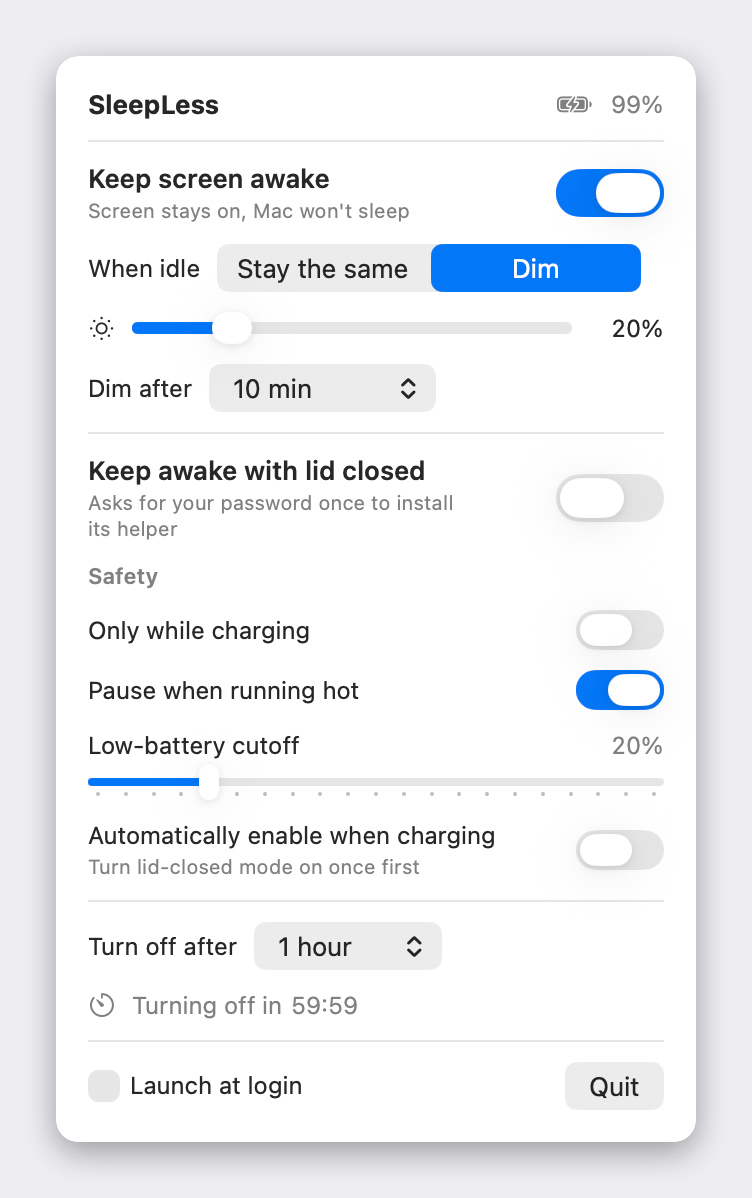
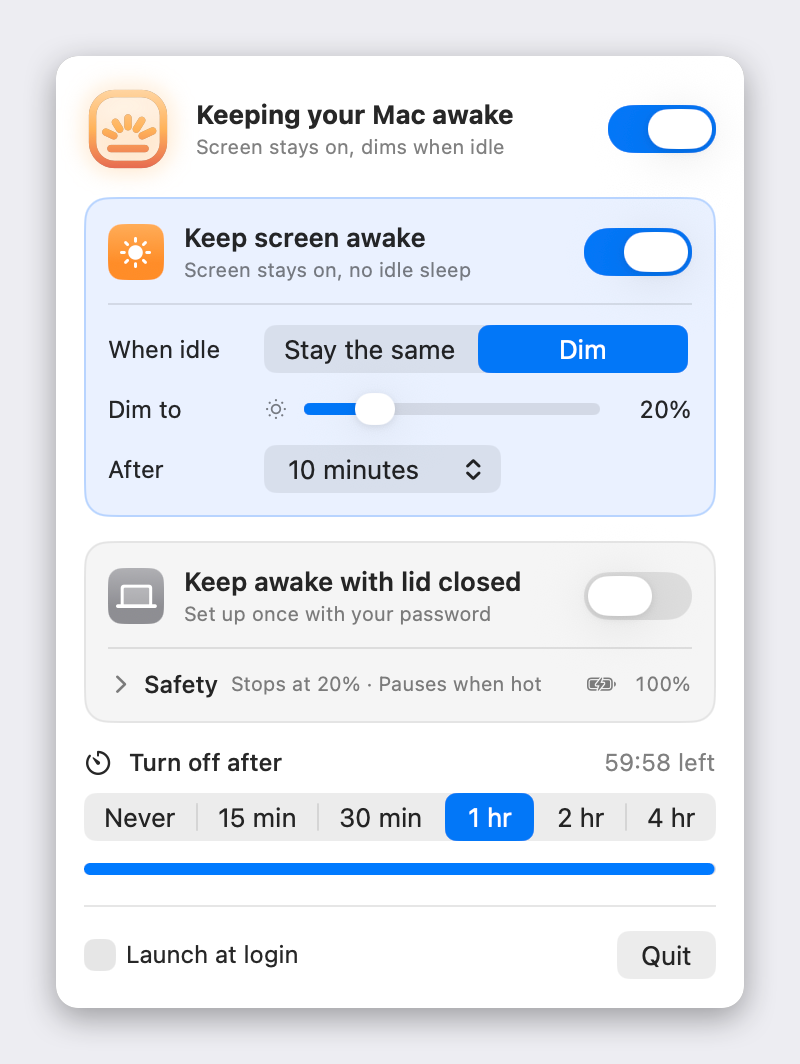
docs: new panel screenshots; describe click-to-toggle, hold-for-settings and the panel layout

diff --git a/docs/index.html b/docs/index.html
@@ -148,8 +148,9 @@
       <div class="card"><div class="icon">☀</div><h3>Keep screen awake</h3><p>Lid open: the screen never idle-dims or sleeps and the Mac never idle-sleeps — the same assertions as <code>caffeinate -di</code>. No admin rights.</p></div>
       <div class="card"><div class="icon">🌙</div><h3>Dim while idle</h3><p>Stay the same, or dim to a brightness you pick after 30 s to 10 min. Any key press or mouse move brings your brightness straight back. Never brightens a screen already below the target.</p></div>
       <div class="card"><div class="icon">💻</div><h3>Keep awake with lid closed</h3><p>Sets the one flag that beats lid-close sleep on Apple Silicon (<code>SleepDisabled</code>) through a tiny root helper you approve once with your password.</p></div>
-      <div class="card"><div class="icon">🛡</div><h3>Safety cut-offs</h3><p>Only while charging. Pause when running hot. Low-battery cutoff (default 20 %). Automatically enable when you plug in, off when you unplug.</p></div>
-      <div class="card"><div class="icon">⏱</div><h3>Turn off after</h3><p>15 min to 4 hours with a live countdown, then everything turns off and normal sleep is back.</p></div>
+      <div class="card"><div class="icon">🛡</div><h3>Safety cut-offs</h3><p>Only while charging. Pause when running hot. Low-battery cutoff (default 20 %). Turn on when you plug in, off when you unplug. All under one <em>Safety</em> disclosure with a one-line summary.</p></div>
+      <div class="card"><div class="icon">⏱</div><h3>Turn off after</h3><p>15 min to 4 hours with a live countdown and progress bar, then everything turns off and normal sleep is back.</p></div>
+      <div class="card"><div class="icon">👆</div><h3>One click on, one click off</h3><p>A quick click on the menu-bar icon turns SleepLess on (bringing back the modes you last had on) or off. Press and hold, or right-click, for the settings panel.</p></div>
       <div class="card"><div class="icon">🐕</div><h3>Watchdog</h3><p>If the app crashes or hangs, the helper restores normal sleep within about two minutes; quitting normally restores it immediately. Your Mac can never get stuck unable to sleep.</p></div>
     </div>
   </div>
@@ -178,10 +179,10 @@
 <section id="panel">
   <div class="wrap">
     <h2>The panel</h2>
-    <p class="lead">Light or dark, it follows your Mac.</p>
+    <p class="lead">Press and hold the menu-bar icon (or right-click it). A status header that says what is happening, a card per mode, the safety rules one click away, and a timer with a live countdown. Light or dark, it follows your Mac — and Reduce Motion, Increase Contrast, the keyboard and VoiceOver.</p>
     <div class="shots">
-      <figure><div class="frame"><img src="assets/panel-light.png" width="752" height="1198" alt="SleepLess panel in light appearance"></div><figcaption>Light</figcaption></figure>
-      <figure><div class="frame"><img src="assets/panel-dark.png" width="752" height="1198" alt="SleepLess panel in dark appearance"></div><figcaption>Dark</figcaption></figure>
+      <figure><div class="frame"><img src="assets/panel-light.png" width="800" height="1064" alt="SleepLess panel in light appearance"></div><figcaption>Light</figcaption></figure>
+      <figure><div class="frame"><img src="assets/panel-dark.png" width="800" height="1064" alt="SleepLess panel in dark appearance"></div><figcaption>Dark</figcaption></figure>
     </div>
   </div>
 </section>
@@ -193,9 +194,9 @@
 <pre><code>git clone https://github.com/CyborgFingers/SleepLess.git
 cd SleepLess
 ./build.sh install</code></pre>
-    <p class="muted">Builds <code>build/SleepLess.app</code>, copies it to <code>/Applications</code> and launches it. Look for the lid icon in the menu bar (if you use Bartender or Ice, or the bar is crowded near the notch, it may be tucked away there). Turning on lid-closed mode asks for your password once. <code>./build.sh uninstall</code> removes the helper, restores normal sleep and deletes the app.</p>
+    <p class="muted">Builds <code>build/SleepLess.app</code>, copies it to <code>/Applications</code> and launches it. Look for the lid icon in the menu bar (if you use Bartender or Ice, or the bar is crowded near the notch, it may be tucked away there). Click it to turn SleepLess on or off; press and hold it, or right-click, for the settings panel. Turning on lid-closed mode asks for your password once. <code>./build.sh uninstall</code> removes the helper, restores normal sleep and deletes the app.</p>
     <ul class="muted">
-      <li><strong>Test it:</strong> <code>SleepLess.app/Contents/MacOS/SleepLess --selftest</code> checks brightness, assertions and battery; <code>./test-helper.sh</code> checks the helper's watchdog with a fake <code>pmset</code>.</li>
+      <li><strong>Test it:</strong> <code>SleepLess.app/Contents/MacOS/SleepLess --selftest</code> checks brightness, assertions, battery and the click logic; <code>./test-helper.sh</code> checks the helper's watchdog with a fake <code>pmset</code>.</li>
       <li><strong>Privacy:</strong> no network, no analytics. The helper only ever runs <code>pmset</code>; any process running as your user could write the request file, but the worst case is a Mac that stays awake, and the watchdog still applies.</li>
     </ul>
   </div>

diff --git a/README.md b/README.md
@@ -20,12 +20,13 @@
 - **Keep screen awake** (lid open) — holds the same power assertions as `caffeinate -di`: the screen never idle-dims or sleeps and the Mac never idle-sleeps. No admin rights needed.
 - **Screen when idle** — *Stay the same*, or *Dim* to a brightness you choose (0–100 %) after an idle delay (right away, 30 s, 1, 2, 5 or 10 min). Any keyboard or mouse input restores your original brightness instantly; so does turning it off or quitting. It never brightens a screen that is already below the target. The keyboard backlight is left alone.
 - **Keep awake with lid closed** — the only thing that beats lid-close sleep on Apple Silicon is the `SleepDisabled` flag (`sudo pmset -a disablesleep 1`). SleepLess sets it through a tiny root helper that you approve once with your password.
-- **Safety cut-offs** for lid-closed mode — *Only while charging*, *Pause when running hot* (thermal state serious/critical), a *Low-battery cutoff* slider (default 20 %, 0 = never) and *Automatically enable when charging* (follows plug/unplug).
-- **Turn off after** — no limit, 15 min, 30 min, 1, 2 or 4 hours, with a live countdown. When the timer ends everything turns off.
+- **Safety cut-offs** for lid-closed mode, tucked under a *Safety* disclosure with a one-line summary — *Only while charging*, *Pause when running hot* (thermal state serious/critical), a *Low-battery cutoff* slider (default 20 %, 0 = never) and *Turn on when charging* (follows plug/unplug).
+- **Turn off after** — never, 15 min, 30 min, 1, 2 or 4 hours, with a live countdown and progress bar. When the timer ends everything turns off.
+- **One click on, one click off** — a quick click on the menu-bar icon turns SleepLess on (bringing back the modes you last had on; screen awake by default) or off. Press and hold the icon, or right-click it, for the settings panel.
 - **Watchdog** — the helper treats a request older than 90 s (app quit, crashed or hung) as "off", so your Mac can never get stuck unable to sleep. Quitting the app restores normal sleep immediately.
 - **Animated menu-bar icon** — a rounded "lid" with a horizon line. Turn SleepLess on and rays rise one after another like a sunrise, shimmer gently while it is on, and set again when it turns off. In lid-closed mode a sun rises over the horizon. It is a template image, so it matches light and dark menu bars, and the animation pauses while your screens sleep.
 - **Launch at login** (on by default after the first launch) and settings that persist.
-- One panel in the menu bar — no Dock icon, no network, no analytics.
+- One panel in the menu bar with a live status header, a card per mode, tooltips on everything and full VoiceOver and keyboard support; it respects Reduce Motion and Increase Contrast. No Dock icon, no network, no analytics.
 
 ## Screenshots
 
@@ -79,26 +80,30 @@ cd SleepLess
 
 ## First run
 
-- SleepLess lives in the **menu bar** — look for the rounded lid icon. There is no Dock icon.
+- SleepLess lives in the **menu bar** — look for the rounded lid icon. There is no Dock icon. **Click** the icon to turn SleepLess on or off; **press and hold** it (or right-click / ⌃-click) for the settings panel. The panel shows this tip once.
 - It registers itself as a **login item** on first launch (macOS may show a "background items added" notification). Untick *Launch at login* in the panel if you would rather not.
 - The first time you turn on **Keep awake with lid closed**, macOS asks for your **administrator password once** to install the helper. You will not be asked again (unless a future version updates the helper, which the app detects and re-installs with one prompt).
 - If you use **Bartender**, **Ice** or a similar menu-bar organiser, or your menu bar is crowded next to the notch, the icon may be hidden — look for it there.
 
 ## Usage
 
-Click the icon to open the panel.
+A **quick click** on the menu-bar icon turns SleepLess on or off: on brings back whatever modes you last had on (screen awake the first time), off turns everything off. **Press and hold** the icon, or **right-click** / **⌃-click** it, to open the settings panel; Esc, another click on the icon, or a click anywhere else closes it.
 
 | Control | What it does |
 | --- | --- |
+| **Status header** | The big glyph and sentence say what SleepLess is doing right now; its switch is the same on/off as a click on the menu-bar icon. |
 | **Keep screen awake** | Screen stays on and the Mac will not idle-sleep while the lid is open. |
-| **When idle** — *Stay the same* / *Dim* | With *Dim*, pick the brightness and the idle delay. Brightness returns on the first key press or mouse move. |
+| **When idle** — *Stay the same* / *Dim* (shown while the mode is on) | With *Dim*, pick the brightness (*Dim to*) and the idle delay (*After*). Brightness returns on the first key press or mouse move. |
 | **Keep awake with lid closed** | Sets `SleepDisabled` through the root helper. The subtitle shows the real state. |
+| **Safety** (disclosure, with a summary like *Stops at 20 % · Pauses when hot* and the battery level) | The rules below. |
 | **Only while charging** | Lid-closed mode turns off (and refuses to turn on) unless the charger is connected. Disables the battery cutoff, since it is no longer needed. |
 | **Pause when running hot** | Turns lid-closed mode off while the Mac's thermal state is serious or critical. |
 | **Low-battery cutoff** | Turns lid-closed mode off when the battery reaches this level on battery power (default 20 %, 0 = never). |
-| **Automatically enable when charging** | Turns lid-closed mode on when you plug in and off when you unplug (after the helper has been installed once). A manual flip sticks until the next plug/unplug. |
-| **Turn off after** | Turns *everything* off after 15 min – 4 hours, with a live countdown. |
+| **Turn on when charging** | Turns lid-closed mode on when you plug in and off when you unplug (after the helper has been installed once). A manual flip sticks until the next plug/unplug. |
+| **Turn off after** | *Never*, 15 min – 4 hours: turns *everything* off, with a live countdown and progress bar. Picking a new value restarts the countdown. |
 | **Launch at login** / **Quit** | Quitting releases the assertions, restores brightness and tells the helper to restore normal sleep straight away. |
+
+Every control has a tooltip, everything works with the keyboard and VoiceOver, and the panel respects Reduce Motion (no shimmer, no transitions) and Increase Contrast.
 
 Whenever a safety guard turns something off, the panel tells you why.
 
@@ -122,7 +127,7 @@ This asks for `sudo` to remove the helper (restoring normal sleep), then removes
 - `/Library/LaunchDaemons/io.github.cyborgfingers.sleepless.lid.plist`
 - `/Library/Application Support/SleepLess/`
 
-If SleepLess is still listed under *System Settings → General → Login Items*, untick it there. Settings live in `~/Library/Preferences/io.github.cyborgfingers.sleepless.plist`; `defaults delete io.github.cyborgfingers.sleepless` clears them.
+If SleepLess is still listed under *System Settings → General → Login Items*, untick it there. Settings (and the modes a click brings back) live in `~/Library/Preferences/io.github.cyborgfingers.sleepless.plist`; `defaults delete io.github.cyborgfingers.sleepless` clears them.
 
 ## Testing
 
@@ -130,7 +135,7 @@ If SleepLess is still listed under *System Settings → General → Login Items*
 ./build.sh && build/SleepLess.app/Contents/MacOS/SleepLess --selftest
 ```
 
-checks the brightness round-trip (it briefly nudges brightness by 10 %), that both sleep assertions register, and that the battery can be read — handy after a macOS update, since brightness uses a private API.
+checks the brightness round-trip (it briefly nudges brightness by 10 %), that both sleep assertions register, that the battery can be read, and the menu-bar click logic (tap / hold / right-click, and what a tap turns on and off) — handy after a macOS update, since brightness uses a private API.
 
 ```bash
 ./test-helper.sh
